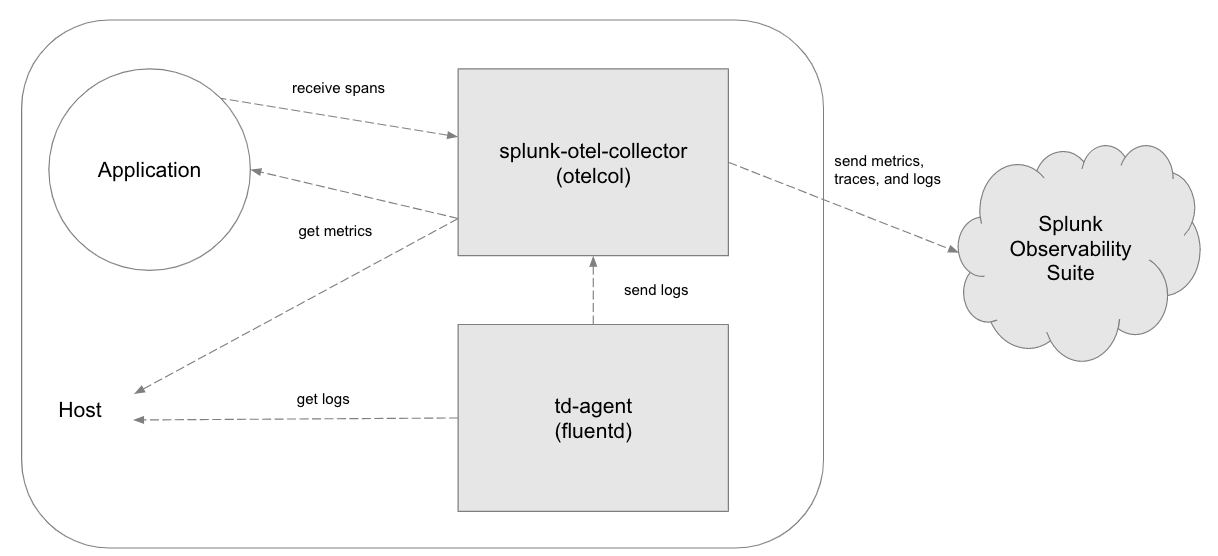
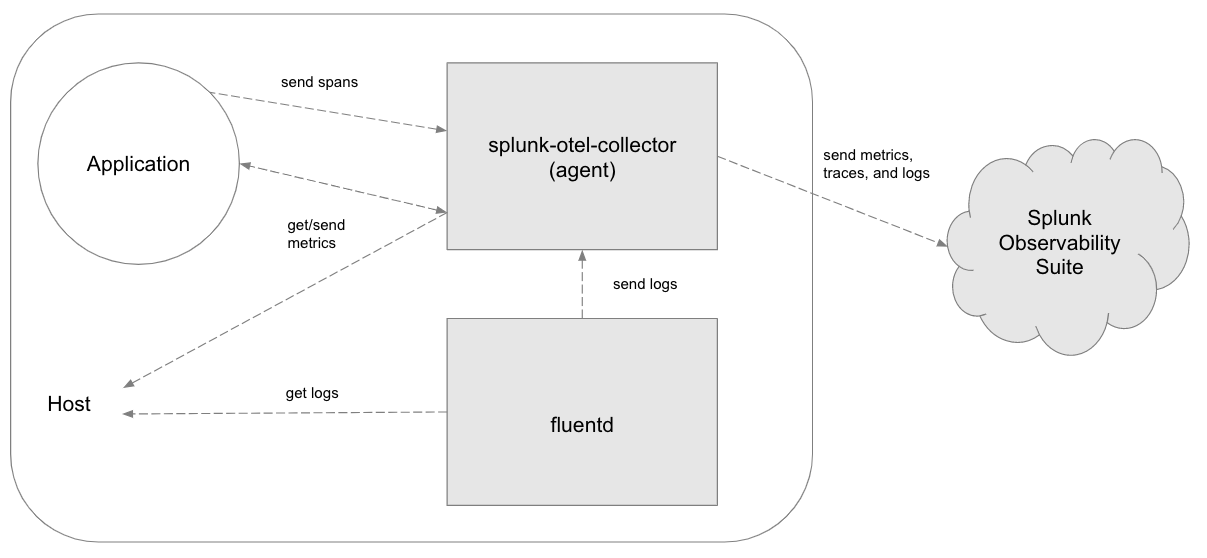
Address feedback

diff --git a/docs/architecture.md b/docs/architecture.md
@@ -7,7 +7,7 @@ This distribution can be deployed in the below ways.
 ![splunk-otel-collector-recommended-arch](images/splunk-otel-collector-recommended-arch.png)
 
 If Helm or the installer script is used then the architecture will look similar
-to above. The actual configuration of the components is as follows:
+to above. The default configuration of the components is as follows:
 
 - [splunk-otel-collector (otelcol)](https://github.com/signalfx/splunk-otel-collector/blob/main/cmd/otelcol/config/collector/agent_config.yaml)
 - [td-agent (fluentd)](https://github.com/signalfx/splunk-otel-collector/tree/main/internal/buildscripts/packaging/fpm/etc/otel/collector/fluentd)
@@ -26,4 +26,5 @@ configured. Note the default configuration for standalone is gateway-mode instea
 ![splunk-otel-collector-recommended-gateway-arch](images/splunk-otel-collector-recommended-gateway-arch.png)
 
 It is possible to manually configure the splunk-otel-collector running as an
-agent to send to a splunk-otel-collector gateway instance/cluster.
+agent to send to a splunk-otel-collector gateway instance/cluster. This
+requires changing the pipeline exporters in the agent to point to the gateway.
